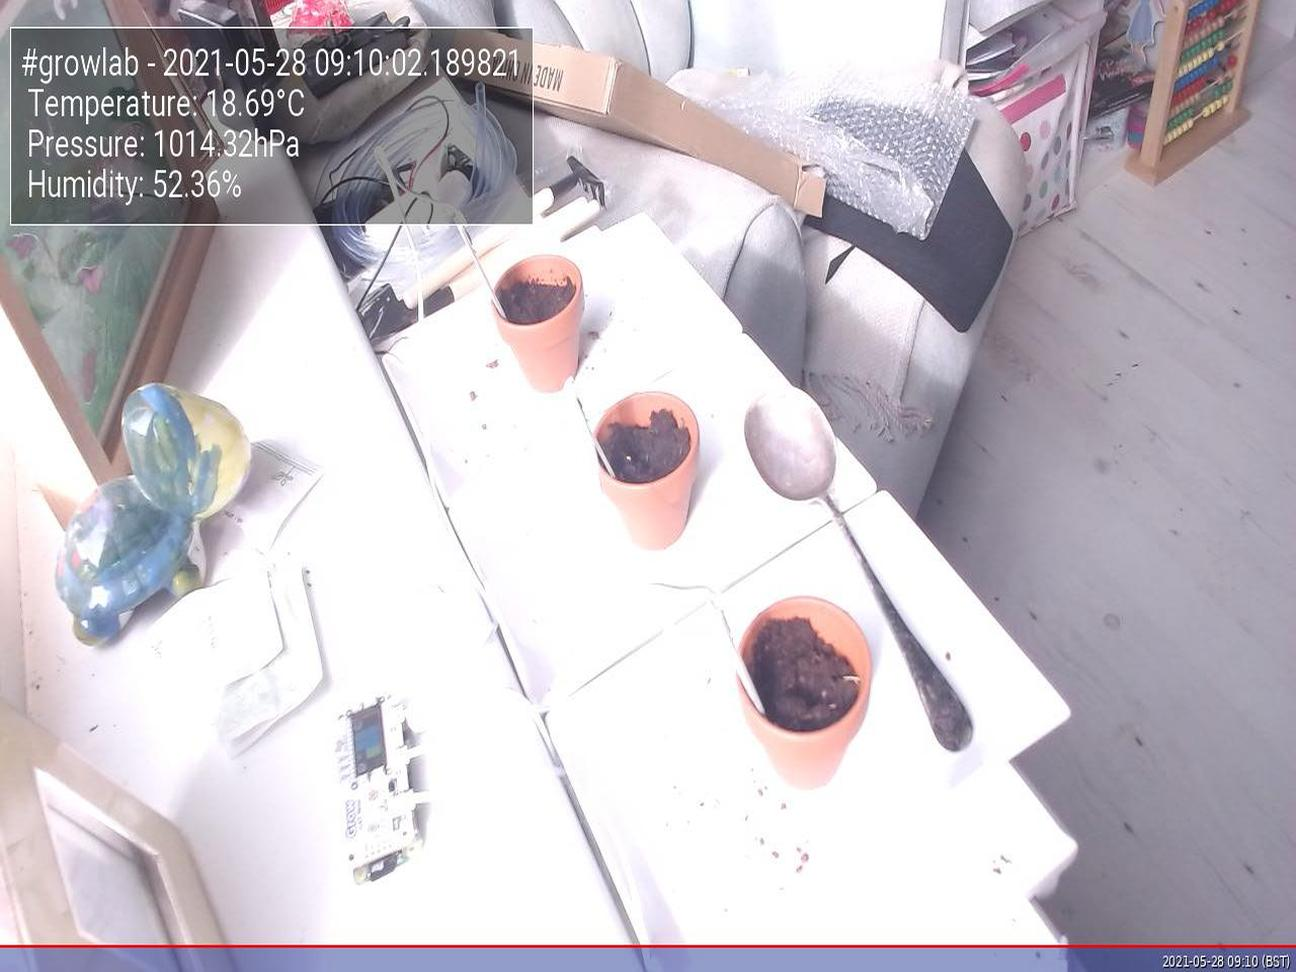
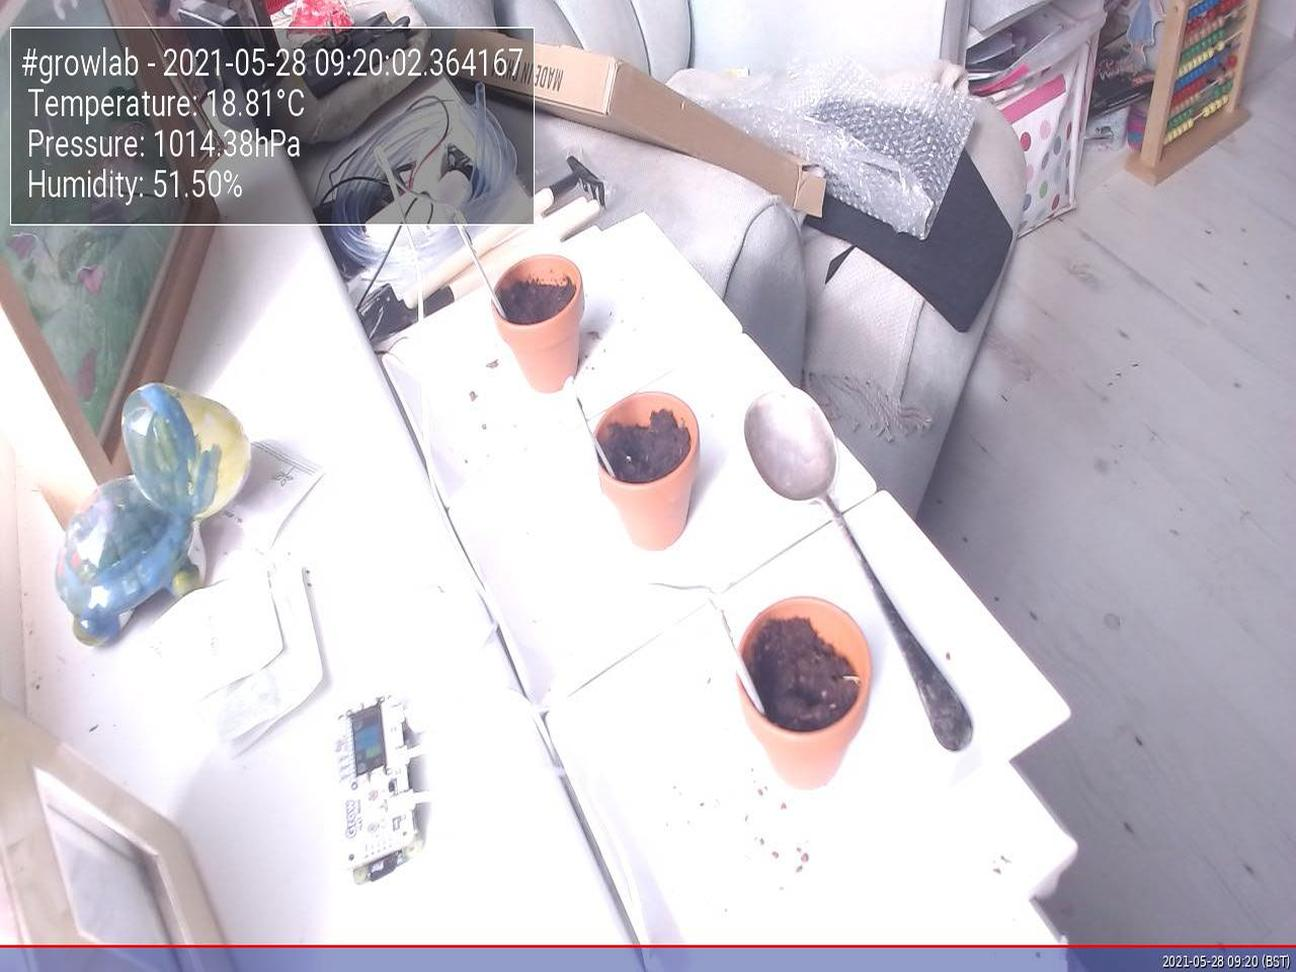
Update images at Fri 28 May 09:20:06 BST 2021

diff --git a/app/docs/index.html b/app/docs/index.html
@@ -47,19 +47,19 @@
                         <tbody>
                             <tr>
                                 <td>Time</td>
-                                <td>2021-05-28 09:10:02.189821</td>
+                                <td>2021-05-28 09:20:02.364167</td>
                             </tr>
                             <tr>
                                 <td>Temperature</td>
-                                <td>18.69°C</td>
+                                <td>18.81°C</td>
                             </tr>
                             <tr>
                                 <td>Humidity</td>
-                                <td>52.36%</td>
+                                <td>51.50%</td>
                             </tr>
                             <tr>
                                 <td>Pressure</td>
-                                <td>1014.32hPa</td>
+                                <td>1014.38hPa</td>
                             </tr>
                         </tbody>
                     </table>
@@ -67,7 +67,7 @@
 
                 <h5>Latest image</h5>
                 <div style="width: 85%;">
-                            <img class="figure-img img-fluid rounded" src="./preview.jpg?uid=1622189405.9932756">
+                            <img class="figure-img img-fluid rounded" src="./preview.jpg?uid=1622190006.1423762">
                 </div>
             </div>
         </div>
